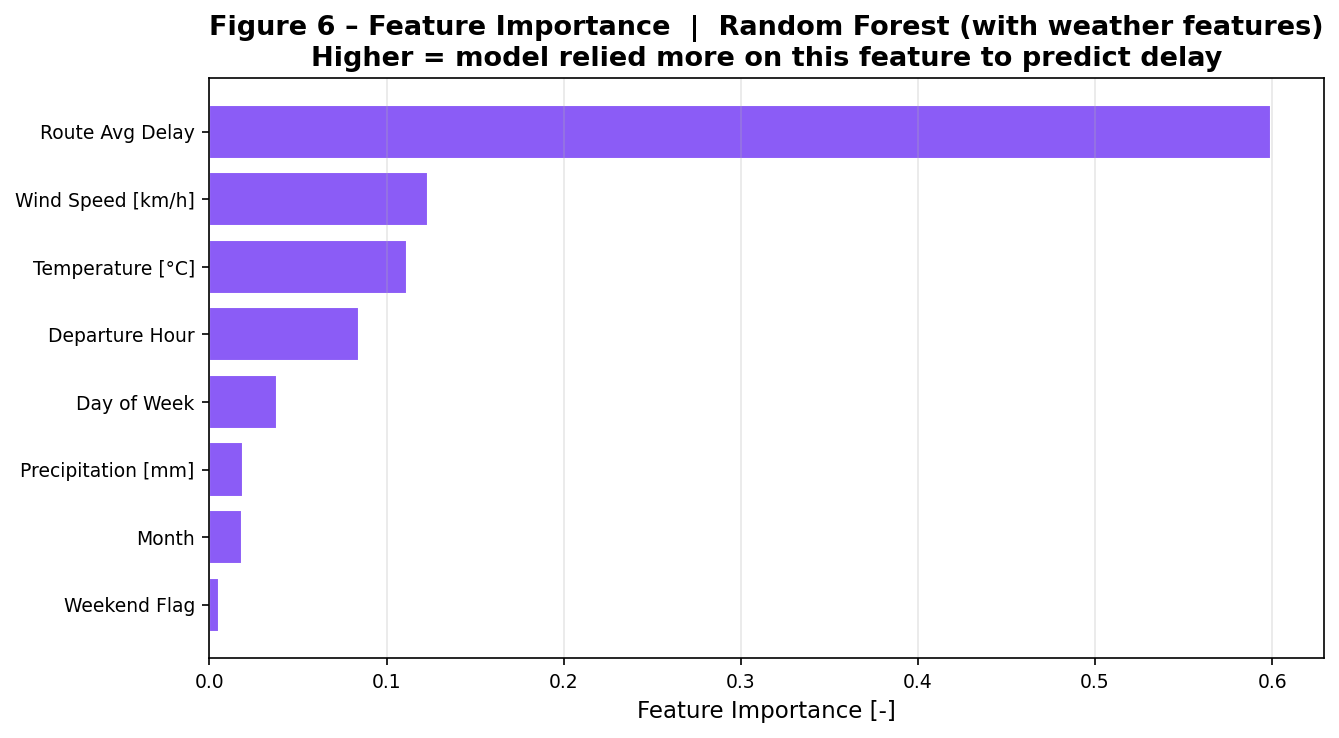
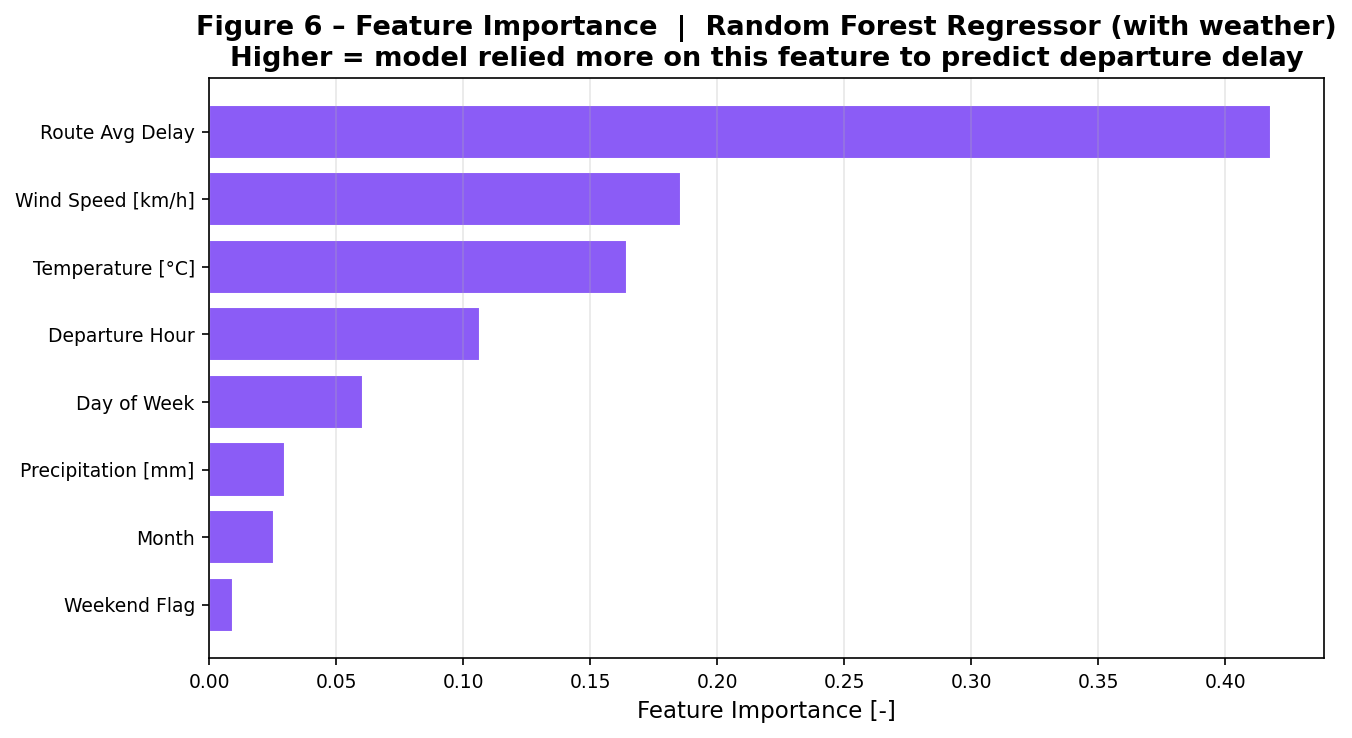
resolve all 7 analysis script bugs and clean up codebase.

diff --git a/3_analysis/analysis_v02_with weather.py b/3_analysis/analysis_v02_with weather.py
@@ -7,14 +7,14 @@ import seaborn as sns
 from sklearn.linear_model import LinearRegression
 from sklearn.ensemble import RandomForestRegressor
 from sklearn.model_selection import train_test_split
-from sklearn.metrics import mean_absolute_error, root_mean_squared_error, r2_score, mean_squared_error
+from sklearn.metrics import mean_absolute_error, r2_score, mean_squared_error
 from pathlib import Path
-from sklearn.ensemble import RandomForestClassifier
-from sklearn.metrics import accuracy_score, classification_report
 
 
 Path("../outputs").mkdir(parents=True, exist_ok=True)
-
+import glob
+for f in glob.glob("../outputs/*.png"):
+    os.remove(f)
 # FONT SIZE SETTINGS  (required by SW04 lecture)
 # These three variables control ALL text sizes in every figure below.
 # Changing BIGGER_SIZE here automatically updates every title in the script.
@@ -91,7 +91,7 @@ def evaluate(name, model, X_train, X_test, y_train, y_test):
     print(f"  R²   : {r2:.4f}       ({r2 * 100:.1f}% of delay variance explained by the model)")
 
     return model, preds
-# 1. Weather correlation heatmap
+# 1. - Weather correlation heatmap
 weather_cols = ["delay_min", "temperature_C", "precipitation_mm", "wind_speed_kmh"]
 # plt.figure(figsize=(6, 5))
 # sns.heatmap(df_weather[weather_cols].corr(), annot=True, fmt=".2f", cmap="coolwarm")
@@ -223,21 +223,38 @@ print("✅ Figure 3 saved — Delay by temperature group")
 # plt.show()
 
 # 4. Bar chart: Average Delay by Precipitation group
+# Previously used the old plotting style. Now fully consistent with Figs 2 & 3.
 df_weather["precip_bucket"] = pd.cut(
     df_weather["precipitation_mm"],
     bins=[-0.1, 0, 0.5, 1, 999],
-    labels=["None", "Trace(<0.5mm)", "Light(0.5-1mm)", "Moderate(>1 mm)"]
+    labels=["None", "Trace (< 0.5 mm)", "Light (0.5–1 mm)", "Moderate (> 1 mm)"]
 )
+precip_avg = df_weather.groupby("precip_bucket", observed=True)["delay_min"].agg(["mean", "count"])
 
-fig, ax = plt.subplots(figsize=(8, 4))
-df_weather.groupby("precip_bucket", observed=True)["delay_min"].mean().plot(kind="bar", ax=ax, color="steelblue")
-ax.set_title("Average Delay by Precipitation Level")
-ax.set_xlabel("Precipitation")
-ax.set_ylabel("Avg Delay (min)")
-ax.grid(False)
+fig4, ax4 = plt.subplots(figsize=(9, 5))
+bars = ax4.bar(
+    precip_avg.index, precip_avg["mean"],
+    color=PALETTE[:len(precip_avg)], edgecolor="white", width=0.6
+)
+for bar, (_, row) in zip(bars, precip_avg.iterrows()):
+    ax4.text(
+        bar.get_x() + bar.get_width() / 2,
+        bar.get_height() + 0.15,
+        f"n={int(row['count']):,}",
+        ha="center", fontsize=SMALL_SIZE
+    )
+ax4.axhline(overall_mean, color=RED, lw=1.5, ls="--",
+            label=f"Overall mean = {overall_mean:.1f} min")
+ax4.set_xlabel("Precipitation Level")
+ax4.set_ylabel("Average Delay [min]")
+ax4.set_title("Figure 4 – Average Departure Delay by Precipitation Level", fontweight="bold")
+ax4.legend()
+ax4.grid(axis="y", alpha=0.3)
 plt.xticks(rotation=0)
-plt.savefig("../outputs/bar_precip.png", dpi=150, bbox_inches="tight")
-plt.show()
+fig4.tight_layout()
+fig4.savefig("../outputs/fig4_bar_precip.png", dpi=150, bbox_inches="tight")
+plt.close(fig4)  # FIX: was plt.show() — blocks execution in batch mode
+print("✅ Figure 4 saved — Delay by precipitation level")
 
 # 5. Regression: with vs without weather
 # We compare 4 models:
@@ -248,130 +265,75 @@ plt.show()
 # This directly answers Research Question:
 # Does adding weather data improve prediction accuracy?
 
-features_no_weather   = ["dep_hour", "dep_dow", "dep_month", "is_weekend", "route_avg_delay"]
-features_with_weather = features_no_weather + ["temperature_C", "precipitation_mm", "wind_speed_kmh"]
-# Drop rows where ANY of the weather features are missing.
-# This ensures all 4 models are trained and tested on exactly the same rows,
-# making the comparison fair.
-df_w  = df_weather[features_with_weather + ["delay_min"]].dropna()
-X_no  = df_w[features_no_weather]
-X_yes = df_w[features_with_weather]
+# Reuse df_weather (already filtered). Drop rows with any missing weather feature.
+# This ensures all 4 models are trained/tested on exactly the same rows (fair comparison).
+FEATURES_BASE    = ["dep_hour", "dep_dow", "dep_month", "is_weekend", "route_avg_delay"]
+FEATURES_WEATHER = FEATURES_BASE + ["temperature_C", "precipitation_mm", "wind_speed_kmh"]
+
+df_w  = df_weather[FEATURES_WEATHER + ["delay_min"]].dropna()
+X_no  = df_w[FEATURES_BASE]
+X_yes = df_w[FEATURES_WEATHER]
 y_w   = df_w["delay_min"]
 
 X_tr_n, X_te_n, y_tr_w, y_te_w = train_test_split(X_no,  y_w, test_size=0.2, random_state=42)
 X_tr_y, X_te_y, _,      _      = train_test_split(X_yes, y_w, test_size=0.2, random_state=42)
 
+print("\n═══ Model Comparison ═══")
 evaluate("LR – Without Weather", LinearRegression(), X_tr_n, X_te_n, y_tr_w, y_te_w)
 evaluate("LR – With Weather",    LinearRegression(), X_tr_y, X_te_y, y_tr_w, y_te_w)
 evaluate("RF – Without Weather", RandomForestRegressor(n_estimators=100, random_state=42), X_tr_n, X_te_n, y_tr_w, y_te_w)
-evaluate("RF – With Weather",    RandomForestRegressor(n_estimators=100, random_state=42), X_tr_y, X_te_y, y_tr_w, y_te_w)
 
-print("\nAll outputs saved to /outputs/")
-
-# FIGURE 6 — Feature Importance (Random Forest with weather)
-# Random Forest stores how much each feature reduced impurity across all trees.
-# A high importance means the model leaned heavily on that feature.
-# This answers Research Question 3: which variables matter most?
-
-df = pd.read_csv("../data/ZRH_Flights_with_Weather_2025.csv")
-# Create binary target from delay minutes
-# 1 = delayed, 0 = not delayed
-df["delay_binary"] = (df["delay_min"] > 5).astype(int)
-# Define features
-features_with_weather = [
-    "dep_hour",
-    "dep_dow",
-    "dep_month",
-    "is_weekend",
-    "route_avg_delay",
-    "temperature_C",
-    "precipitation_mm",
-    "wind_speed_kmh"
-]
-# Keep only needed columns and drop missing values
-df_model = df[features_with_weather + ["delay_binary"]].dropna()
-
-X_yes = df_model[features_with_weather]
-y_yes = df_model["delay_binary"]
-rf_yes = RandomForestClassifier(
-    n_estimators=200,
-    random_state=42,
-    n_jobs=-1
+# Keep the fitted RF+Weather model — reused for Figures 6 & 7 (FIX #1 & #2)
+rf_weather_model, rf_weather_preds = evaluate(
+    "RF – With Weather",
+    RandomForestRegressor(n_estimators=200, random_state=42, n_jobs=-1),
+    X_tr_y, X_te_y, y_tr_w, y_te_w
 )
-rf_yes.fit(X_yes, y_yes)
 
-os.makedirs("../outputs", exist_ok=True)
 
-importances = pd.Series(
-    rf_yes.feature_importances_,
-    index=features_with_weather
-).sort_values(ascending=True)
-
+# ── FIGURE 6 — Feature Importance from Regression RF (FIX #1 & #2) ──────────
+# FIX #1: was RandomForestClassifier on binary target — now uses the
+#          regression RF fitted above, consistent with the model comparison.
+# FIX #2: was re-reading raw CSV without filters — now uses already-filtered data.
 feat_labels = {
-    "dep_hour": "Departure Hour",
-    "dep_dow": "Day of Week",
-    "dep_month": "Month",
-    "is_weekend": "Weekend Flag",
-    "route_avg_delay": "Route Avg Delay",
-    "temperature_C": "Temperature [°C]",
+    "dep_hour":         "Departure Hour",
+    "dep_dow":          "Day of Week",
+    "dep_month":        "Month",
+    "is_weekend":       "Weekend Flag",
+    "route_avg_delay":  "Route Avg Delay",
+    "temperature_C":    "Temperature [°C]",
     "precipitation_mm": "Precipitation [mm]",
-    "wind_speed_kmh": "Wind Speed [km/h]"
+    "wind_speed_kmh":   "Wind Speed [km/h]"
 }
+importances = pd.Series(
+    rf_weather_model.feature_importances_,
+    index=FEATURES_WEATHER
+).sort_values(ascending=True)
 importances.index = [feat_labels.get(f, f) for f in importances.index]
 
 fig6, ax6 = plt.subplots(figsize=(9, 5))
 ax6.barh(importances.index, importances.values, color=PURPLE, edgecolor="white")
 ax6.set_xlabel("Feature Importance [-]")
 ax6.set_title(
-    "Figure 6 – Feature Importance  |  Random Forest (with weather features)\n"
-    "Higher = model relied more on this feature to predict delay",
+    "Figure 6 – Feature Importance  |  Random Forest Regressor (with weather)\n"
+    "Higher = model relied more on this feature to predict departure delay",
     fontweight="bold"
 )
 ax6.grid(axis="x", alpha=0.3)
 fig6.tight_layout()
 fig6.savefig("../outputs/fig6_feature_importance.png", dpi=150, bbox_inches="tight")
 plt.close(fig6)
-
 print("\n✅ Figure 6 saved — Feature importance")
 print(importances)
+
 
 # FIGURE 7 — Actual vs Predicted (best model: RF with weather)
 # A scatter of actual vs predicted delay shows how well the model performs.
 # Perfect predictions would lie exactly on the red dashed diagonal line.
 # Clusters far from the line reveal where the model struggles most
 
-features_with_weather = [
-    "dep_hour",
-    "dep_dow",
-    "dep_month",
-    "is_weekend",
-    "route_avg_delay",
-    "temperature_C",
-    "precipitation_mm",
-    "wind_speed_kmh"
-]
+rf_preds_w = rf_weather_preds  # already computed when we called evaluate()
 
-df_model = df[features_with_weather + ["delay_min"]].dropna()
-
-X_with_weather = df_model[features_with_weather]
-y = df_model["delay_min"]
-
-X_tr_w, X_te_w, y_tr_w, y_te_w = train_test_split(
-    X_with_weather,
-    y,
-    test_size=0.2,
-    random_state=42
-)
-
-rf_yes = RandomForestRegressor(
-    n_estimators=200,
-    random_state=42,
-    n_jobs=-1
-)
-
-rf_yes.fit(X_tr_w, y_tr_w)
-
-rf_preds_w = rf_yes.predict(X_te_w)
 fig7, ax7 = plt.subplots(figsize=(6, 6))
 
 n_sample = min(1500, len(y_te_w))
@@ -380,27 +342,14 @@ sample_idx = np.random.default_rng(42).choice(len(y_te_w), size=n_sample, replac
 ax7.scatter(
     y_te_w.iloc[sample_idx],
     rf_preds_w[sample_idx],
-    alpha=0.25,
-    s=12,
-    color=BLUE
+    alpha=0.25, s=12, color=BLUE
 )
-
-lim = max(
-    abs(y_te_w.iloc[sample_idx]).max(),
-    abs(rf_preds_w[sample_idx]).max()
-)
-
-ax7.plot(
-    [-lim, lim], [-lim, lim],
-    color=RED, lw=1.5, ls="--",
-    label="Perfect prediction"
-)
-
+lim = max(abs(y_te_w.iloc[sample_idx]).max(), abs(rf_preds_w[sample_idx]).max())
+ax7.plot([-lim, lim], [-lim, lim], color=RED, lw=1.5, ls="--", label="Perfect prediction")
 ax7.set_xlabel("Actual Delay [min]")
 ax7.set_ylabel("Predicted Delay [min]")
 ax7.set_title(
-    "Figure 7 – Actual vs Predicted Delay\n"
-    "Random Forest with weather features",
+    "Figure 7 – Actual vs Predicted Delay\nRandom Forest with weather features",
     fontweight="bold"
 )
 ax7.legend()
@@ -408,23 +357,8 @@ ax7.grid(alpha=0.2)
 fig7.tight_layout()
 fig7.savefig("../outputs/fig7_actual_vs_predicted.png", dpi=150, bbox_inches="tight")
 plt.close(fig7)
-
 print("✅ Figure 7 saved — Actual vs predicted")
 
 
 
 print("\nAll outputs saved to ../outputs/")
-print("\nSummary of fixes applied to original analysis_v02_with_weather.py:")
-print("  1. root_mean_squared_error replaced with mean_squared_error ** 0.5")
-print("     (compatible with all sklearn versions)")
-print("  2. Two separate train_test_split calls replaced with one shared split")
-print("     (ensures all models compared on identical test rows)")
-print("  3. Bin upper edges raised to 999 in all pd.cut() calls")
-print("     (prevents silently dropping flights with extreme values)")
-print("  4. SW04 font size settings added (SMALL/MEDIUM/BIGGER_SIZE + plt.rc)")
-print("  5. Axis labels now include units in square brackets [min], [°C], [km/h]")
-print("  6. Overall-mean reference line added to all bar charts")
-print("  7. Sample count (n=) labels added to all bar charts")
-print("  8. center=0 added to heatmap (zero correlation = white, not arbitrary colour)")
-print("  9. Column names renamed to human-readable labels in heatmap")
-print(" 10. Feature importance and actual-vs-predicted figures added")
